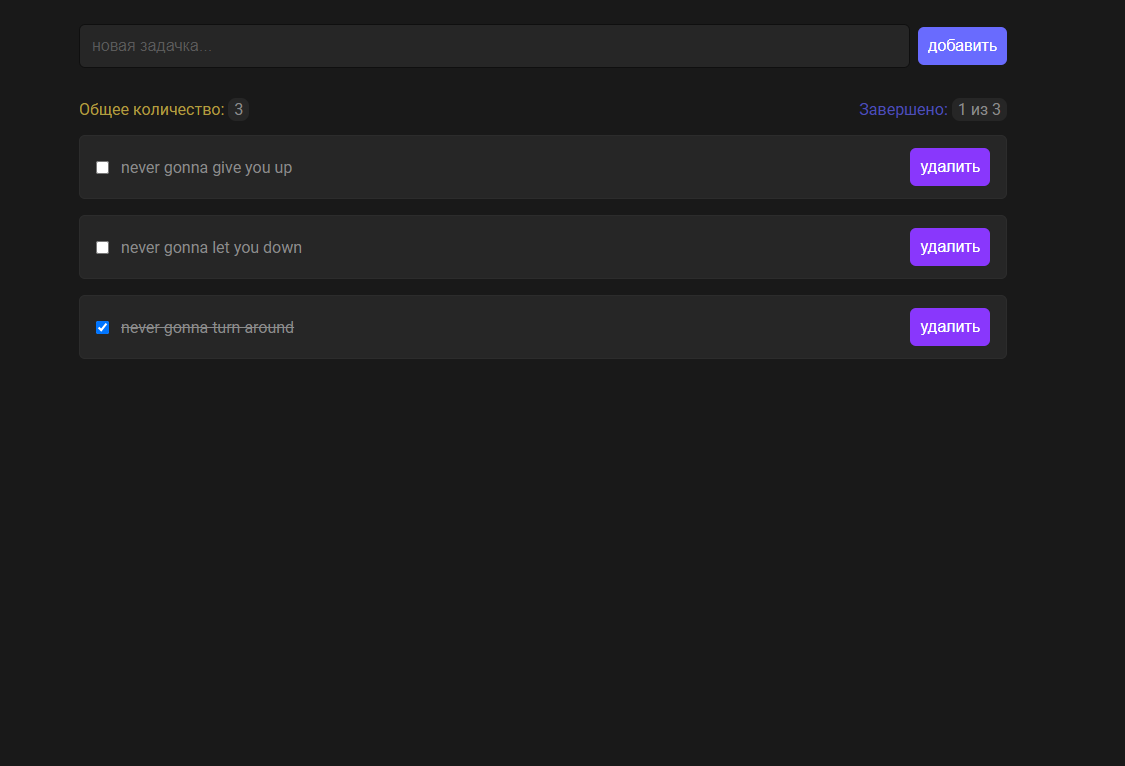
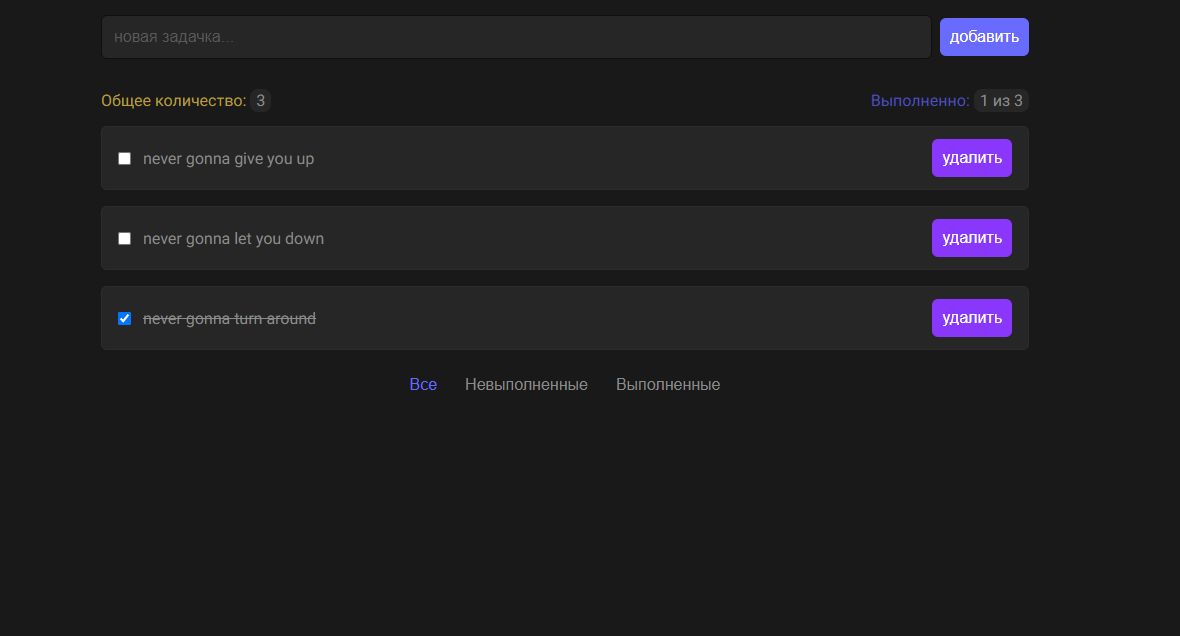
added SortBtn and updated styles

diff --git a/src/components/todo/TodoSort/TodoSort.tsx b/src/components/todo/TodoSort/TodoSort.tsx
@@ -3,24 +3,30 @@ import { FC } from "react";
 import { LabelsProvider } from "@/L10N/LabelsProvider";
 import { EMPTY_STRING } from "@/utils/Constants";
 import { TodoSortOption } from "@/utils/TodoUtils";
+import SortBtn from "@/components/todo/TodoSort/SortBtn/SortBtn";
 
 type TodoSort = {
   className?: string;
   onChangeSort: (sortOption: TodoSortOption) => void;
+  sortOption?: TodoSortOption;
 };
 
-const TodoSort: FC<TodoSort> = ({ className = EMPTY_STRING, onChangeSort }) => {
+const TodoSort: FC<TodoSort> = ({ className = EMPTY_STRING, onChangeSort, ...rest }) => {
   return (
     <div className={`${styles.wrapper} ${className}`}>
-      <button type="button" onClick={() => onChangeSort(TodoSortOption.ALL)} className={styles.label}>
+      <SortBtn onClick={() => onChangeSort(TodoSortOption.ALL)} activeCondition={TodoSortOption.ALL} {...rest}>
         {LabelsProvider.ALL}
-      </button>
-      <button type="button" onClick={() => onChangeSort(TodoSortOption.ACTIVE)} className={styles.label}>
+      </SortBtn>
+      <SortBtn onClick={() => onChangeSort(TodoSortOption.ACTIVE)} activeCondition={TodoSortOption.ACTIVE} {...rest}>
         {LabelsProvider.ONLY_ACTIVE}
-      </button>
-      <button type="button" onClick={() => onChangeSort(TodoSortOption.COMPLETED)} className={styles.label}>
+      </SortBtn>
+      <SortBtn
+        onClick={() => onChangeSort(TodoSortOption.COMPLETED)}
+        activeCondition={TodoSortOption.COMPLETED}
+        {...rest}
+      >
         {LabelsProvider.ONLY_COMPLETED}
-      </button>
+      </SortBtn>
     </div>
   );
 };

diff --git a/src/components/todo/TodoList/TodoList.tsx b/src/components/todo/TodoList/TodoList.tsx
@@ -10,12 +10,13 @@ import useSortedList from "@/hooks/useSortedList";
 type TodoListProps = {
   className?: string;
   list?: TodoData[];
+  useSort?: boolean;
 };
 
-const TodoList: FC<TodoListProps> = ({ className = EMPTY_STRING, list = [] }) => {
+const TodoList: FC<TodoListProps> = ({ className = EMPTY_STRING, list = [], useSort = false }) => {
   const { onToggleStatus, onRemoveTodo } = useContext(TodoCtxt);
 
-  const { onChangeSort, sortedList } = useSortedList({ list });
+  const { onChangeSort, sortedList, sortOption } = useSortedList({ list });
 
   return (
     <>
@@ -37,7 +38,7 @@ const TodoList: FC<TodoListProps> = ({ className = EMPTY_STRING, list = [] }) =>
               );
             })}
           </ul>
-          <TodoSort onChangeSort={onChangeSort} />
+          {useSort ? <TodoSort onChangeSort={onChangeSort} sortOption={sortOption} /> : null}
         </>
       ) : null}
     </>

diff --git a/src/components/todo/TodoSort/SortBtn/SortBtn.tsx b/src/components/todo/TodoSort/SortBtn/SortBtn.tsx
@@ -1,0 +1,25 @@
+import styles from "./SortBtn.module.css";
+import { FC, ReactNode } from "react";
+import { TodoSortOption } from "@/utils/TodoUtils";
+import type { DefaultOnClickFunc } from "@/types/types";
+import BaseButton from "@/components/base/BaseButton/BaseButton";
+import { EMPTY_STRING } from "@/utils/Constants";
+
+type SortBtnProps = {
+  className?: string;
+  activeCondition?: TodoSortOption;
+  sortOption?: TodoSortOption;
+  children: ReactNode;
+  onClick?: DefaultOnClickFunc;
+};
+
+const SortBtn: FC<SortBtnProps> = ({ children, className = EMPTY_STRING, sortOption, activeCondition, ...rest }) => {
+  const isActive = sortOption === activeCondition;
+  return (
+    <BaseButton className={`${styles.btn} ${className} ${isActive ? styles.isActive : EMPTY_STRING}`} {...rest}>
+      {children}
+    </BaseButton>
+  );
+};
+
+export default SortBtn;

diff --git a/src/hooks/useSortedList.ts b/src/hooks/useSortedList.ts
@@ -13,6 +13,7 @@ export type onChangeSortFunc = (sortOption: TodoSortOption) => void;
 type UseSortedListOutput = {
   onChangeSort: onChangeSortFunc;
   sortedList: TodoData[];
+  sortOption: TodoSortOption;
 };
 
 const useSortedList: UseSortedListFunc = ({ list }) => {
@@ -43,7 +44,7 @@ const useSortedList: UseSortedListFunc = ({ list }) => {
     setSortOption(sortOption);
   };
 
-  return { onChangeSort, sortedList };
+  return { onChangeSort, sortedList, sortOption };
 };
 
 export default useSortedList;

diff --git a/src/App.tsx b/src/App.tsx
@@ -34,7 +34,7 @@ function App() {
           totalNumberOfTodos={todoList.length}
           numberOfFinishedTodos={todoList.filter((todo) => todo.isCompleted).length}
         />
-        <TodoList list={todoList} />
+        <TodoList list={todoList} useSort />
       </TodoCtxt.Provider>
     </Layout>
   );

diff --git a/src/components/todo/TodoSort/SortBtn/SortBtn.module.css b/src/components/todo/TodoSort/SortBtn/SortBtn.module.css
@@ -1,0 +1,15 @@
+.btn {
+  background-color: transparent;
+  border: none;
+  outline: none;
+  cursor: pointer;
+  color: var(--grey);
+}
+
+.btn:hover {
+  background-color: transparent;
+}
+
+.isActive {
+  color: var(--light-blue);
+}

diff --git a/src/components/todo/TodoSort/TodoSort.module.css b/src/components/todo/TodoSort/TodoSort.module.css
@@ -5,8 +5,3 @@
 .wrapper > * + * {
   margin-left: 8px;
 }
-
-.label {
-  color: var(--grey);
-  cursor: pointer;
-}
